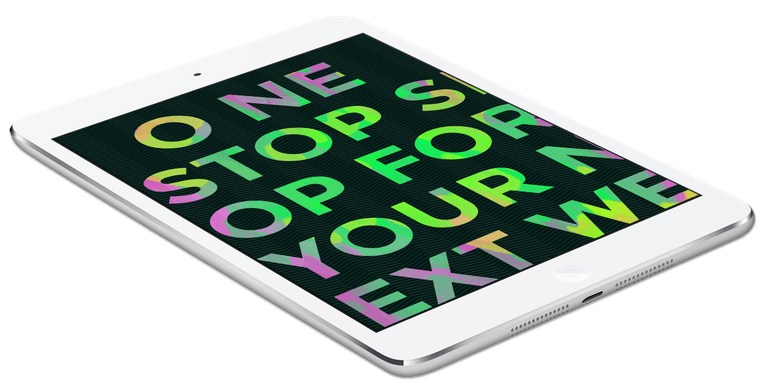
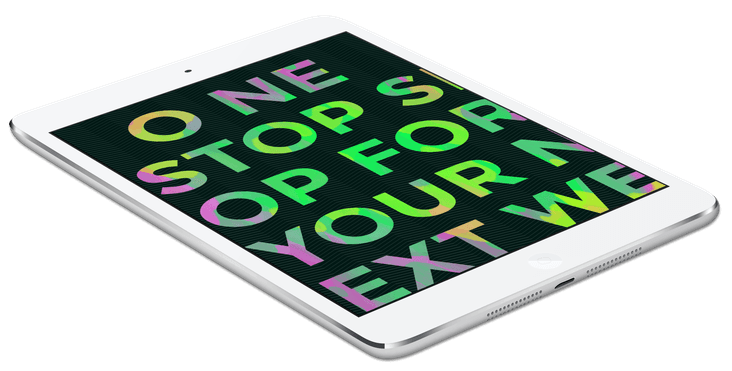
Angle mockups resized

diff --git a/_site/assets/styles/screen.css b/_site/assets/styles/screen.css
@@ -30,7 +30,7 @@ html body { font-size: 125%; line-height: 1.56; color: #1a1a1a; background-color
 @media only screen and (min-width: 90em) { html body { font-size: 150%; line-height: 1.56; } }
 html body a { color: #1a1a1a; background-color: #f9f9f9; text-decoration: none; background-color: transparent; }
 html body a img { display: block; }
-@media only screen and (min-width: 64em) { html body { background: url('http://metamn.github.io/its-csongor/assets/images/subtle-dots.png?1412015057'), #f9f9f9; } }
+@media only screen and (min-width: 64em) { html body { background: url('http://metamn.github.io/its-csongor/assets/images/subtle-dots.png?1412042772'), #f9f9f9; } }
 html body header > h3, html body footer > h3, html body section > h3, html body article > h3, html body aside > h3, html body nav > h3, html body figure > h3 { display: none; }
 html body figure img { max-width: 100%; height: auto; }
 html body figure figcaption { display: none; }
@@ -84,7 +84,7 @@ html.frontpage body #featured-image article { overflow: hidden; }
   html.frontpage body #featured-image article figure img { max-width: 100%; height: auto; }
   html.frontpage body #featured-image article figure img { max-width: none; }
   html.frontpage body #featured-image article figure figcaption { display: none; } }
-html.frontpage body #about { display: -webkit-box; /* OLD - iOS 6-, Safari 3.1-6 */ display: -moz-box; /* OLD - Firefox 19- (buggy but mostly works) */ display: -ms-flexbox; /* TWEENER - IE 10 */ display: -webkit-flex; /* NEW - Chrome */ display: flex; /* NEW, Spec - Opera 12.1, Firefox 20+ */ -webkit-box-pack: center; -ms-flex-pack: center; -webkit-justify-content: center; -moz-justify-content: center; justify-content: center; color: #f9f9f9; background-color: #1a1a1a; background: url('http://metamn.github.io/its-csongor/assets/images/black-felt.png?1412015057'), #1a1a1a; }
+html.frontpage body #about { display: -webkit-box; /* OLD - iOS 6-, Safari 3.1-6 */ display: -moz-box; /* OLD - Firefox 19- (buggy but mostly works) */ display: -ms-flexbox; /* TWEENER - IE 10 */ display: -webkit-flex; /* NEW - Chrome */ display: flex; /* NEW, Spec - Opera 12.1, Firefox 20+ */ -webkit-box-pack: center; -ms-flex-pack: center; -webkit-justify-content: center; -moz-justify-content: center; justify-content: center; color: #f9f9f9; background-color: #1a1a1a; background: url('http://metamn.github.io/its-csongor/assets/images/black-felt.png?1412042772'), #1a1a1a; }
 html.frontpage body #about article { padding: 3.12em 1.56em; }
 html.frontpage body #about article p { font-family: "Europa", sans-serif; font-weight: 300; font-size: 1.6154em; max-width: 23.4em; }
 @media only screen and (max-width: 37.499em) { html.frontpage body #about article p { font-size: 1.3077em; } }

diff --git a/assets/styles/screen.css b/assets/styles/screen.css
@@ -30,7 +30,7 @@ html body { font-size: 125%; line-height: 1.56; color: #1a1a1a; background-color
 @media only screen and (min-width: 90em) { html body { font-size: 150%; line-height: 1.56; } }
 html body a { color: #1a1a1a; background-color: #f9f9f9; text-decoration: none; background-color: transparent; }
 html body a img { display: block; }
-@media only screen and (min-width: 64em) { html body { background: url('http://metamn.github.io/its-csongor/assets/images/subtle-dots.png?1412015057'), #f9f9f9; } }
+@media only screen and (min-width: 64em) { html body { background: url('http://metamn.github.io/its-csongor/assets/images/subtle-dots.png?1412042772'), #f9f9f9; } }
 html body header > h3, html body footer > h3, html body section > h3, html body article > h3, html body aside > h3, html body nav > h3, html body figure > h3 { display: none; }
 html body figure img { max-width: 100%; height: auto; }
 html body figure figcaption { display: none; }
@@ -84,7 +84,7 @@ html.frontpage body #featured-image article { overflow: hidden; }
   html.frontpage body #featured-image article figure img { max-width: 100%; height: auto; }
   html.frontpage body #featured-image article figure img { max-width: none; }
   html.frontpage body #featured-image article figure figcaption { display: none; } }
-html.frontpage body #about { display: -webkit-box; /* OLD - iOS 6-, Safari 3.1-6 */ display: -moz-box; /* OLD - Firefox 19- (buggy but mostly works) */ display: -ms-flexbox; /* TWEENER - IE 10 */ display: -webkit-flex; /* NEW - Chrome */ display: flex; /* NEW, Spec - Opera 12.1, Firefox 20+ */ -webkit-box-pack: center; -ms-flex-pack: center; -webkit-justify-content: center; -moz-justify-content: center; justify-content: center; color: #f9f9f9; background-color: #1a1a1a; background: url('http://metamn.github.io/its-csongor/assets/images/black-felt.png?1412015057'), #1a1a1a; }
+html.frontpage body #about { display: -webkit-box; /* OLD - iOS 6-, Safari 3.1-6 */ display: -moz-box; /* OLD - Firefox 19- (buggy but mostly works) */ display: -ms-flexbox; /* TWEENER - IE 10 */ display: -webkit-flex; /* NEW - Chrome */ display: flex; /* NEW, Spec - Opera 12.1, Firefox 20+ */ -webkit-box-pack: center; -ms-flex-pack: center; -webkit-justify-content: center; -moz-justify-content: center; justify-content: center; color: #f9f9f9; background-color: #1a1a1a; background: url('http://metamn.github.io/its-csongor/assets/images/black-felt.png?1412042772'), #1a1a1a; }
 html.frontpage body #about article { padding: 3.12em 1.56em; }
 html.frontpage body #about article p { font-family: "Europa", sans-serif; font-weight: 300; font-size: 1.6154em; max-width: 23.4em; }
 @media only screen and (max-width: 37.499em) { html.frontpage body #about article p { font-size: 1.3077em; } }

diff --git a/_site/assets/styles/pages/iorad.css b/_site/assets/styles/pages/iorad.css
@@ -113,14 +113,18 @@ Backtrace:
 /var/lib/gems/1.9.1/gems/sass-3.3.14/lib/sass/plugin/compiler.rb:214:in `block in update_stylesheets'
 /var/lib/gems/1.9.1/gems/sass-3.3.14/lib/sass/plugin/compiler.rb:208:in `each'
 /var/lib/gems/1.9.1/gems/sass-3.3.14/lib/sass/plugin/compiler.rb:208:in `update_stylesheets'
-/var/lib/gems/1.9.1/gems/sass-3.3.14/lib/sass/plugin/compiler.rb:462:in `on_file_changed'
-/var/lib/gems/1.9.1/gems/sass-3.3.14/lib/sass/plugin/compiler.rb:324:in `block in watch'
-/var/lib/gems/1.9.1/gems/listen-2.7.9/lib/listen/listener.rb:276:in `call'
-/var/lib/gems/1.9.1/gems/listen-2.7.9/lib/listen/listener.rb:276:in `_process_changes'
-/var/lib/gems/1.9.1/gems/listen-2.7.9/lib/listen/listener.rb:233:in `block in _wait_for_changes'
-/var/lib/gems/1.9.1/gems/listen-2.7.9/lib/listen/listener.rb:216:in `loop'
-/var/lib/gems/1.9.1/gems/listen-2.7.9/lib/listen/listener.rb:216:in `_wait_for_changes'
-/var/lib/gems/1.9.1/gems/listen-2.7.9/lib/listen/listener.rb:312:in `block in _start_wait_thread'
+/var/lib/gems/1.9.1/gems/sass-3.3.14/lib/sass/plugin/compiler.rb:291:in `watch'
+/var/lib/gems/1.9.1/gems/compass-1.0.1/lib/compass/sass_compiler.rb:46:in `watch!'
+/var/lib/gems/1.9.1/gems/compass-1.0.1/lib/compass/commands/watch_project.rb:41:in `perform'
+/var/lib/gems/1.9.1/gems/compass-1.0.1/lib/compass/commands/base.rb:18:in `execute'
+/var/lib/gems/1.9.1/gems/compass-1.0.1/lib/compass/commands/project_base.rb:19:in `execute'
+/var/lib/gems/1.9.1/gems/compass-1.0.1/lib/compass/exec/sub_command_ui.rb:43:in `perform!'
+/var/lib/gems/1.9.1/gems/compass-1.0.1/lib/compass/exec/sub_command_ui.rb:15:in `run!'
+/var/lib/gems/1.9.1/gems/compass-1.0.1/bin/compass:30:in `block in <top (required)>'
+/var/lib/gems/1.9.1/gems/compass-1.0.1/bin/compass:44:in `call'
+/var/lib/gems/1.9.1/gems/compass-1.0.1/bin/compass:44:in `<top (required)>'
+/usr/local/bin/compass:23:in `load'
+/usr/local/bin/compass:23:in `<main>'
 */
 body:before {
   white-space: pre;

diff --git a/assets/styles/pages/iorad.css b/assets/styles/pages/iorad.css
@@ -113,14 +113,18 @@ Backtrace:
 /var/lib/gems/1.9.1/gems/sass-3.3.14/lib/sass/plugin/compiler.rb:214:in `block in update_stylesheets'
 /var/lib/gems/1.9.1/gems/sass-3.3.14/lib/sass/plugin/compiler.rb:208:in `each'
 /var/lib/gems/1.9.1/gems/sass-3.3.14/lib/sass/plugin/compiler.rb:208:in `update_stylesheets'
-/var/lib/gems/1.9.1/gems/sass-3.3.14/lib/sass/plugin/compiler.rb:462:in `on_file_changed'
-/var/lib/gems/1.9.1/gems/sass-3.3.14/lib/sass/plugin/compiler.rb:324:in `block in watch'
-/var/lib/gems/1.9.1/gems/listen-2.7.9/lib/listen/listener.rb:276:in `call'
-/var/lib/gems/1.9.1/gems/listen-2.7.9/lib/listen/listener.rb:276:in `_process_changes'
-/var/lib/gems/1.9.1/gems/listen-2.7.9/lib/listen/listener.rb:233:in `block in _wait_for_changes'
-/var/lib/gems/1.9.1/gems/listen-2.7.9/lib/listen/listener.rb:216:in `loop'
-/var/lib/gems/1.9.1/gems/listen-2.7.9/lib/listen/listener.rb:216:in `_wait_for_changes'
-/var/lib/gems/1.9.1/gems/listen-2.7.9/lib/listen/listener.rb:312:in `block in _start_wait_thread'
+/var/lib/gems/1.9.1/gems/sass-3.3.14/lib/sass/plugin/compiler.rb:291:in `watch'
+/var/lib/gems/1.9.1/gems/compass-1.0.1/lib/compass/sass_compiler.rb:46:in `watch!'
+/var/lib/gems/1.9.1/gems/compass-1.0.1/lib/compass/commands/watch_project.rb:41:in `perform'
+/var/lib/gems/1.9.1/gems/compass-1.0.1/lib/compass/commands/base.rb:18:in `execute'
+/var/lib/gems/1.9.1/gems/compass-1.0.1/lib/compass/commands/project_base.rb:19:in `execute'
+/var/lib/gems/1.9.1/gems/compass-1.0.1/lib/compass/exec/sub_command_ui.rb:43:in `perform!'
+/var/lib/gems/1.9.1/gems/compass-1.0.1/lib/compass/exec/sub_command_ui.rb:15:in `run!'
+/var/lib/gems/1.9.1/gems/compass-1.0.1/bin/compass:30:in `block in <top (required)>'
+/var/lib/gems/1.9.1/gems/compass-1.0.1/bin/compass:44:in `call'
+/var/lib/gems/1.9.1/gems/compass-1.0.1/bin/compass:44:in `<top (required)>'
+/usr/local/bin/compass:23:in `load'
+/usr/local/bin/compass:23:in `<main>'
 */
 body:before {
   white-space: pre;

diff --git a/_site/assets/styles/pages/anvelocom.css b/_site/assets/styles/pages/anvelocom.css
@@ -90,14 +90,18 @@ Backtrace:
 /var/lib/gems/1.9.1/gems/sass-3.3.14/lib/sass/plugin/compiler.rb:214:in `block in update_stylesheets'
 /var/lib/gems/1.9.1/gems/sass-3.3.14/lib/sass/plugin/compiler.rb:208:in `each'
 /var/lib/gems/1.9.1/gems/sass-3.3.14/lib/sass/plugin/compiler.rb:208:in `update_stylesheets'
-/var/lib/gems/1.9.1/gems/sass-3.3.14/lib/sass/plugin/compiler.rb:462:in `on_file_changed'
-/var/lib/gems/1.9.1/gems/sass-3.3.14/lib/sass/plugin/compiler.rb:324:in `block in watch'
-/var/lib/gems/1.9.1/gems/listen-2.7.9/lib/listen/listener.rb:276:in `call'
-/var/lib/gems/1.9.1/gems/listen-2.7.9/lib/listen/listener.rb:276:in `_process_changes'
-/var/lib/gems/1.9.1/gems/listen-2.7.9/lib/listen/listener.rb:233:in `block in _wait_for_changes'
-/var/lib/gems/1.9.1/gems/listen-2.7.9/lib/listen/listener.rb:216:in `loop'
-/var/lib/gems/1.9.1/gems/listen-2.7.9/lib/listen/listener.rb:216:in `_wait_for_changes'
-/var/lib/gems/1.9.1/gems/listen-2.7.9/lib/listen/listener.rb:312:in `block in _start_wait_thread'
+/var/lib/gems/1.9.1/gems/sass-3.3.14/lib/sass/plugin/compiler.rb:291:in `watch'
+/var/lib/gems/1.9.1/gems/compass-1.0.1/lib/compass/sass_compiler.rb:46:in `watch!'
+/var/lib/gems/1.9.1/gems/compass-1.0.1/lib/compass/commands/watch_project.rb:41:in `perform'
+/var/lib/gems/1.9.1/gems/compass-1.0.1/lib/compass/commands/base.rb:18:in `execute'
+/var/lib/gems/1.9.1/gems/compass-1.0.1/lib/compass/commands/project_base.rb:19:in `execute'
+/var/lib/gems/1.9.1/gems/compass-1.0.1/lib/compass/exec/sub_command_ui.rb:43:in `perform!'
+/var/lib/gems/1.9.1/gems/compass-1.0.1/lib/compass/exec/sub_command_ui.rb:15:in `run!'
+/var/lib/gems/1.9.1/gems/compass-1.0.1/bin/compass:30:in `block in <top (required)>'
+/var/lib/gems/1.9.1/gems/compass-1.0.1/bin/compass:44:in `call'
+/var/lib/gems/1.9.1/gems/compass-1.0.1/bin/compass:44:in `<top (required)>'
+/usr/local/bin/compass:23:in `load'
+/usr/local/bin/compass:23:in `<main>'
 */
 body:before {
   white-space: pre;

diff --git a/assets/styles/pages/anvelocom.css b/assets/styles/pages/anvelocom.css
@@ -90,14 +90,18 @@ Backtrace:
 /var/lib/gems/1.9.1/gems/sass-3.3.14/lib/sass/plugin/compiler.rb:214:in `block in update_stylesheets'
 /var/lib/gems/1.9.1/gems/sass-3.3.14/lib/sass/plugin/compiler.rb:208:in `each'
 /var/lib/gems/1.9.1/gems/sass-3.3.14/lib/sass/plugin/compiler.rb:208:in `update_stylesheets'
-/var/lib/gems/1.9.1/gems/sass-3.3.14/lib/sass/plugin/compiler.rb:462:in `on_file_changed'
-/var/lib/gems/1.9.1/gems/sass-3.3.14/lib/sass/plugin/compiler.rb:324:in `block in watch'
-/var/lib/gems/1.9.1/gems/listen-2.7.9/lib/listen/listener.rb:276:in `call'
-/var/lib/gems/1.9.1/gems/listen-2.7.9/lib/listen/listener.rb:276:in `_process_changes'
-/var/lib/gems/1.9.1/gems/listen-2.7.9/lib/listen/listener.rb:233:in `block in _wait_for_changes'
-/var/lib/gems/1.9.1/gems/listen-2.7.9/lib/listen/listener.rb:216:in `loop'
-/var/lib/gems/1.9.1/gems/listen-2.7.9/lib/listen/listener.rb:216:in `_wait_for_changes'
-/var/lib/gems/1.9.1/gems/listen-2.7.9/lib/listen/listener.rb:312:in `block in _start_wait_thread'
+/var/lib/gems/1.9.1/gems/sass-3.3.14/lib/sass/plugin/compiler.rb:291:in `watch'
+/var/lib/gems/1.9.1/gems/compass-1.0.1/lib/compass/sass_compiler.rb:46:in `watch!'
+/var/lib/gems/1.9.1/gems/compass-1.0.1/lib/compass/commands/watch_project.rb:41:in `perform'
+/var/lib/gems/1.9.1/gems/compass-1.0.1/lib/compass/commands/base.rb:18:in `execute'
+/var/lib/gems/1.9.1/gems/compass-1.0.1/lib/compass/commands/project_base.rb:19:in `execute'
+/var/lib/gems/1.9.1/gems/compass-1.0.1/lib/compass/exec/sub_command_ui.rb:43:in `perform!'
+/var/lib/gems/1.9.1/gems/compass-1.0.1/lib/compass/exec/sub_command_ui.rb:15:in `run!'
+/var/lib/gems/1.9.1/gems/compass-1.0.1/bin/compass:30:in `block in <top (required)>'
+/var/lib/gems/1.9.1/gems/compass-1.0.1/bin/compass:44:in `call'
+/var/lib/gems/1.9.1/gems/compass-1.0.1/bin/compass:44:in `<top (required)>'
+/usr/local/bin/compass:23:in `load'
+/usr/local/bin/compass:23:in `<main>'
 */
 body:before {
   white-space: pre;

diff --git a/_scripts/resize.rb b/_scripts/resize.rb
@@ -43,7 +43,7 @@ Dir.glob("*.*").each do |f|
           image_names << "tablet"
         when "angle1", "angle"
           size << "320x0"
-          size << "768x0"
+          size << "732x0"
           size << "1024x0"
           size << "1440x0"
           image_names << "mobile"
